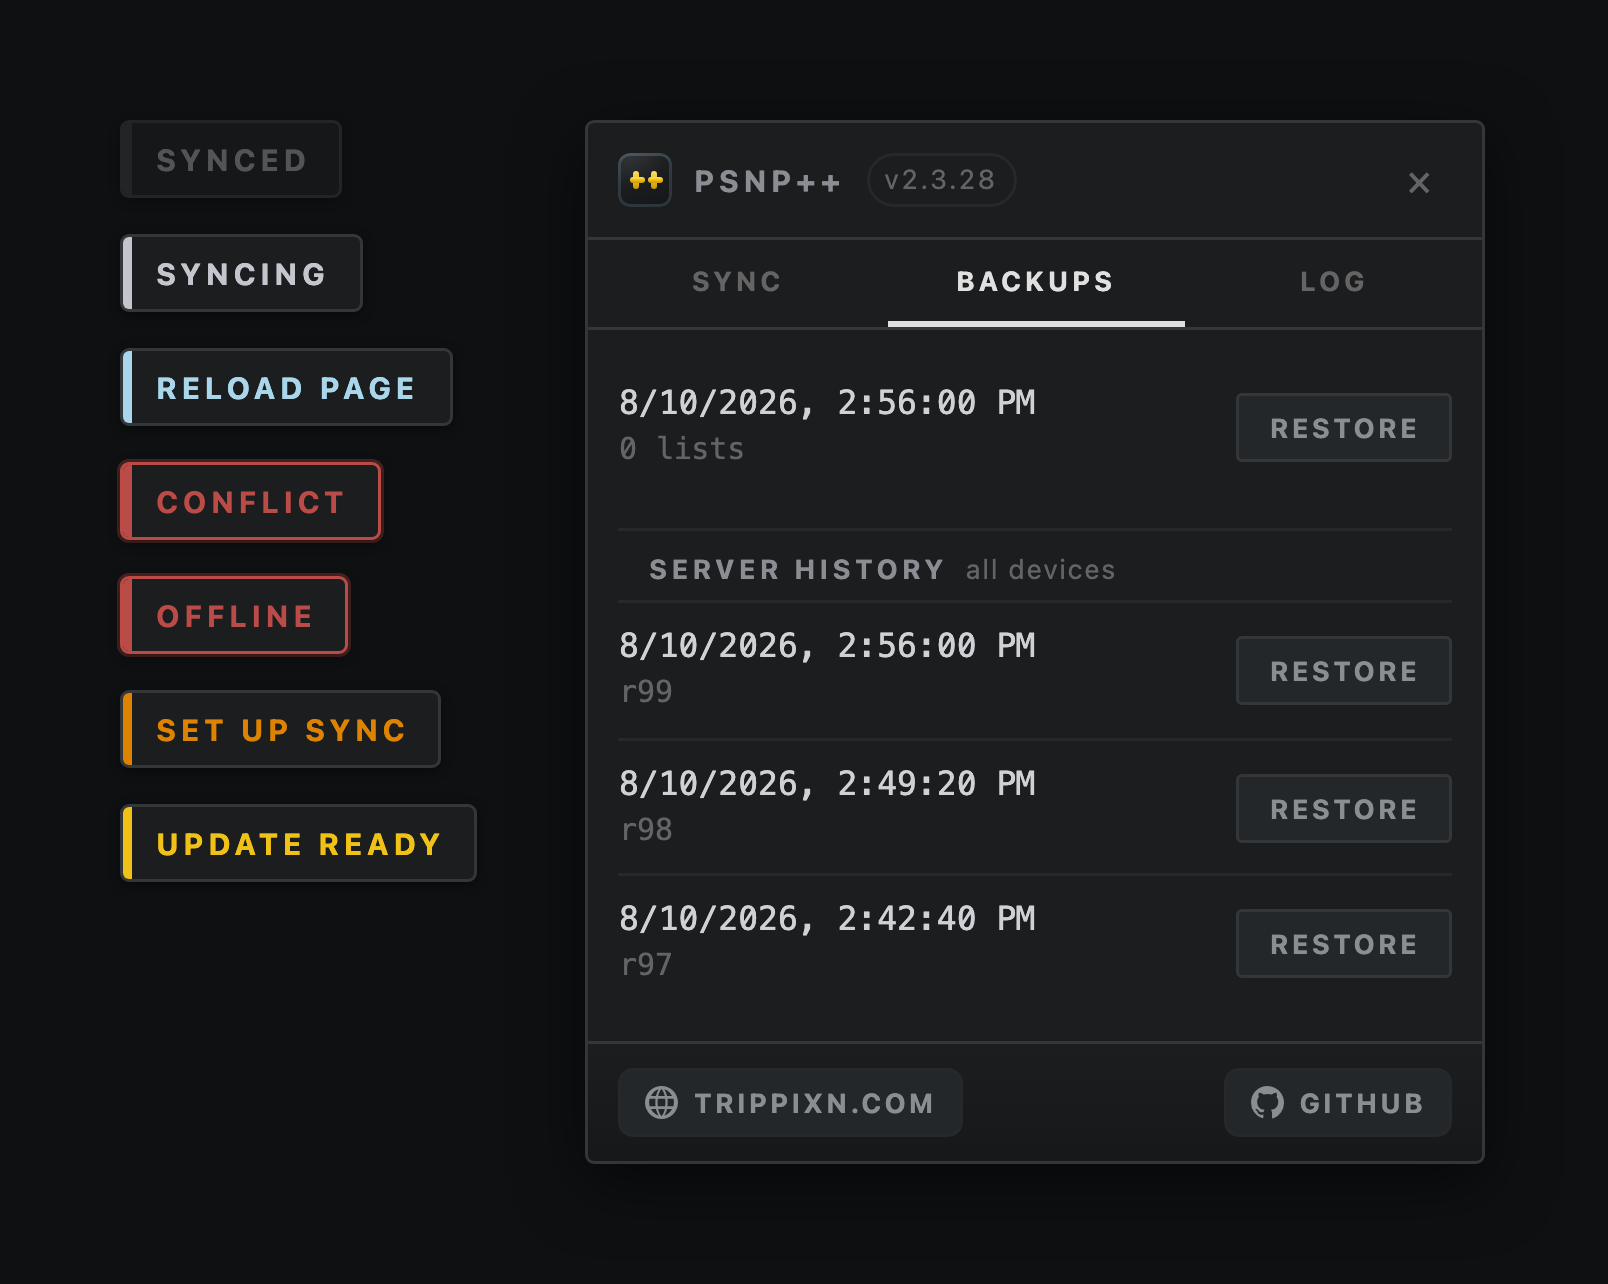
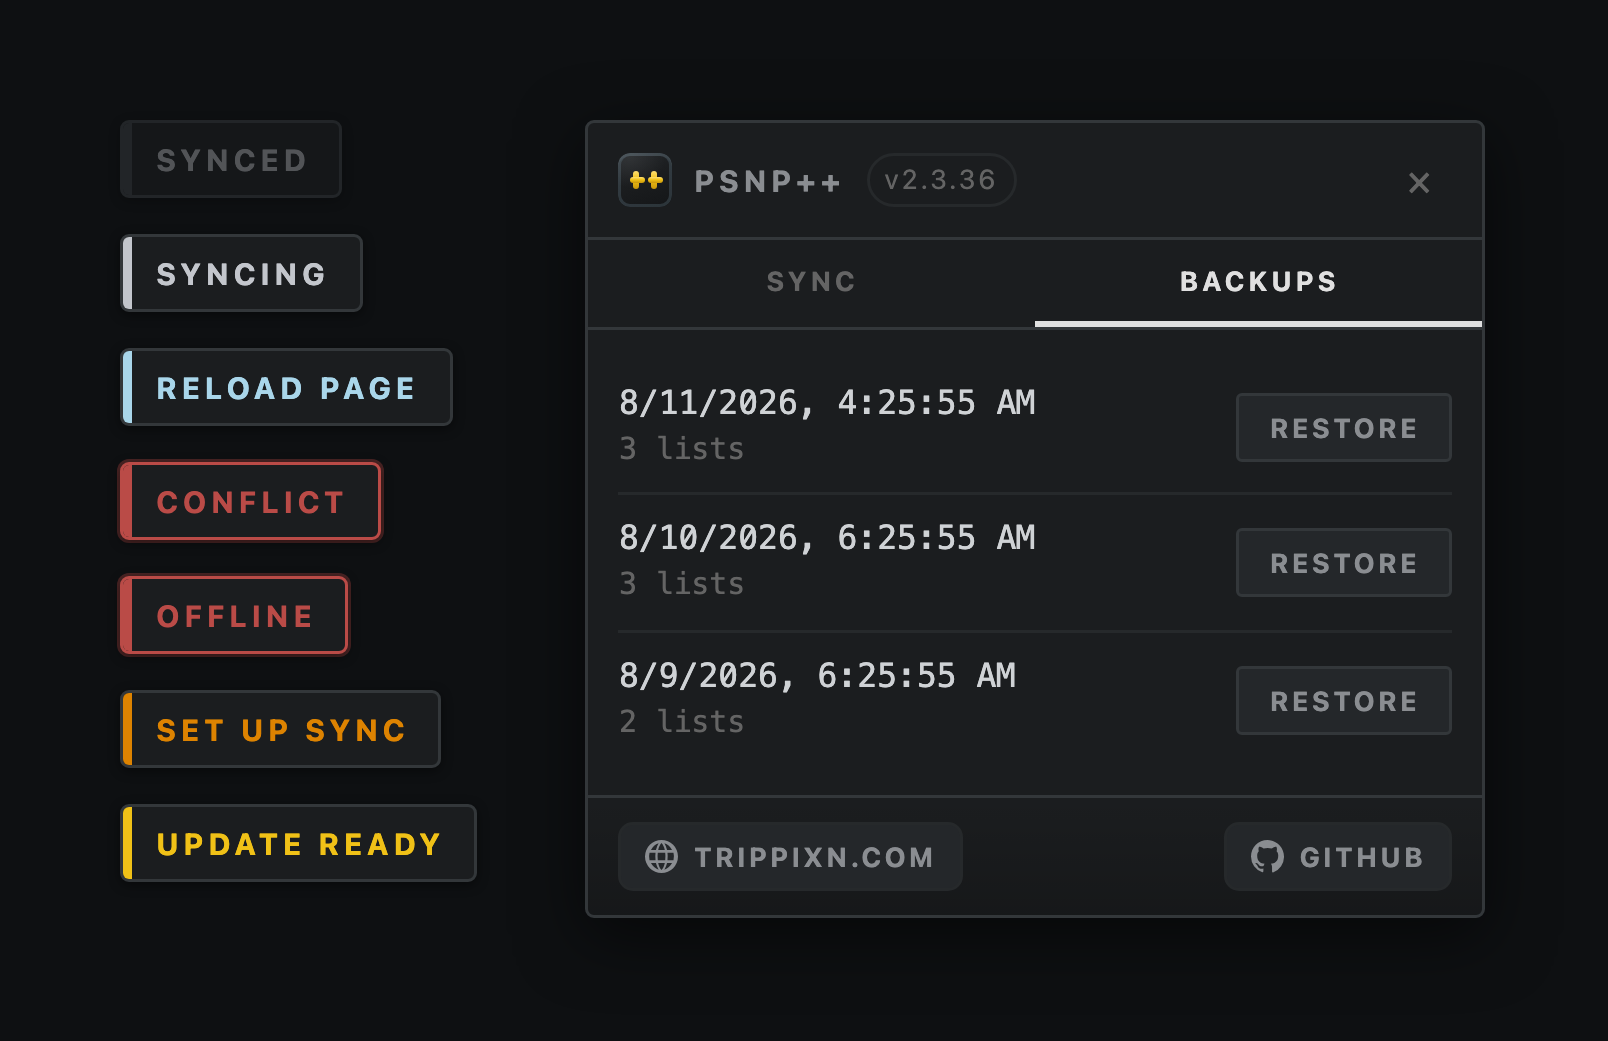
docs: reshoot the README panel — two tabs, three daily backups
The embedded shot still showed the old design: three tabs including Log, and a
SERVER HISTORY section under the local snapshots. Both were removed, so the
README was advertising a panel that no longer exists.

Reshot from the real modules, so it cannot drift from the code that draws it.
The fixture was passing history, describeDelta and serverHistory — props the
panel no longer accepts — and only one backup. It now seeds a full slate of
MAX_BACKUPS on consecutive days, which is what the tab looks like in steady
use rather than an emptier panel than anyone actually has, and gives the rows
different list counts so "one snapshot holds ALL your lists" is visible in the
picture rather than only claimed in the prose.

The paragraph under it described restoring "either" of two lists. Replaced with
what the panel does now, plus the two things about backups that are not
guessable from a screenshot: one per day EXCEPT that a merge which would remove
something always takes one, and the server keeps a revision of every push
behind them, which is what makes a second device recoverable.

Playwright was installed only to render the shot; package.json and the lockfile
are unchanged. Bundle untouched, so no release.

diff --git a/scripts/preview.html b/scripts/preview.html
@@ -35,17 +35,17 @@
   // never shipped — which it did, sitting at 2.3.26 well past it.
   const version = await fetch('/package.json').then(r => r.json()).then(p => p.version);
 
+  // A full slate of MAX_BACKUPS, one per day, which is what the tab looks like
+  // in steady use. Fewer would show an emptier panel than anyone actually has.
+  const DAY = 24 * 60 * 60 * 1000;
   const panel = createSettingsPanel({
     config: { endpoint: 'https://trippixn.com/api/psnppp', key: 'stored' },
-    backups: [{ at: Date.now() - 3600e3 }],
-    history: [{ at: Date.now() - 120e3, revision: 93, delta: { gamesRemoved: 1 } }],
-    describeDelta: () => '-1 game',
-    version,
-    serverHistory: [
-      { revision: 99, updatedAt: Date.now() - 3600e3, size: 4339 },
-      { revision: 98, updatedAt: Date.now() - 4000e3, size: 3790 },
-      { revision: 97, updatedAt: Date.now() - 4400e3, size: 3256 }
-    ]
+    backups: [
+      { at: Date.now() - 2 * 60 * 60 * 1000, listCount: 3 },
+      { at: Date.now() - DAY, listCount: 3 },
+      { at: Date.now() - 2 * DAY, listCount: 2 }
+    ],
+    version
   });
   const pel = panel.element ?? panel;
   // Open on the Backups tab, which is what this preview is for.

diff --git a/README.md b/README.md
@@ -21,14 +21,19 @@ It is a **companion** to PSNP+, not a replacement. Install both, and PSNP+ keeps
 itself from HusKyCode as normal.
 
 <div align="center">
-<img src="assets/preview.png" alt="The status chip in each of its states, beside the settings panel showing local backups and server history" width="820">
+<img src="assets/preview.png" alt="The status chip in each of its states, beside the settings panel showing three daily backups with restore buttons" width="820">
 <br>
 <sub>The status chip in each of its states, and the panel it opens — rendered from the real modules. <a href="#regenerating-the-icon-and-preview">Regenerate</a>.</sub>
 </div>
 
 Everything lives behind one chip in the corner of any psnprofiles.com page. It tells you the
-sync state at a glance, left-click syncs, right-click opens the panel — local backups, server
-history from every device, and a one-click restore of either.
+sync state at a glance, left-click syncs, and right-click opens the panel: your sync key and
+endpoint, and the last three daily backups with a one-click restore.
+
+A backup is one snapshot of **all** your lists, taken once per day before the first merge that
+writes — and always before any merge that would remove something, because that is the case a
+cap must never ration. Restoring rewrites this browser and reloads the page. The server keeps
+its own revision of every push behind that, which is what makes a second device recoverable.
 
 > [!IMPORTANT]
 > **No support.** This is published because the code may be useful to read, not because it
